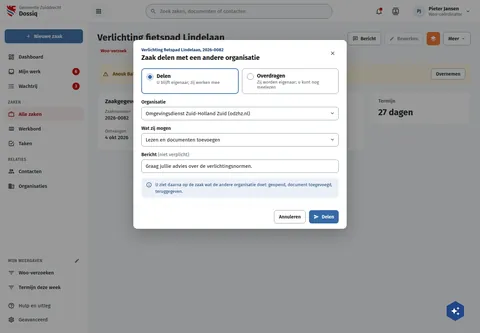
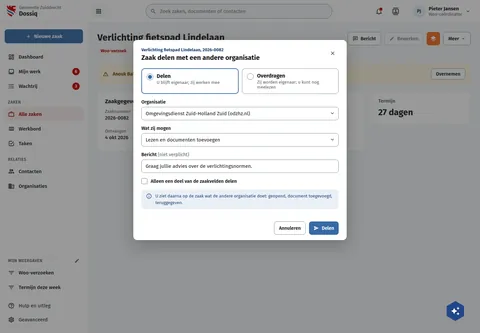
fix(screens): DqZaakSamenwerken draws the partial-fields choice users have
"Alleen een deel van de zaakvelden delen" stands under the message in the
share dialog on the page; the board left it out.

Assisted-by: ClaudeCode:claude-opus-5-5

Changed region(s): [[0.25, 0.6306, 0.75, 0.7207], [0.2812, 0.5405, 0.6875, 0.6306]]

diff --git a/preview/screens/boards/DqZaakSamenwerken.html b/preview/screens/boards/DqZaakSamenwerken.html
@@ -154,7 +154,7 @@ a{color:var(--sc-primary, #3669a5)}a:hover{color:var(--sc-primary-deep, #234a78)
         <div style="display: flex; flex-direction: column; gap: 4px"><span style="font-size: 13px; font-weight: 700; color: var(--sc-primary-deep, #234a78)">Verlichting fietspad Lindelaan, 2026-0082</span><h2 id="dlg-titel" style="margin: 0; font-size: 20px; font-weight: 700">Zaak delen met een andere organisatie</h2></div>
         <button type="button" aria-label="Sluiten" style="width: 36px; height: 36px; border: 0; border-radius: 18px; background: transparent; color: var(--sc-work-text, #3d4047); display: inline-flex; align-items: center; justify-content: center"><svg width="18" height="18" viewbox="0 0 24 24" fill="currentColor" aria-hidden="true"><path d="M19,6.41L17.59,5L12,10.59L6.41,5L5,6.41L10.59,12L5,17.59L6.41,19L12,13.41L17.59,19L19,17.59L13.41,12L19,6.41Z"></path></svg></button>
       </div>
-      <div style="padding: 12px 24px 20px; display: flex; flex-direction: column; gap: 16px"><fieldset style="margin: 0; padding: 0; border: 0; display: flex; gap: 10px"><label style="flex: 1; display: flex; gap: 10px; align-items: flex-start; padding: 12px 14px; border: 2px solid var(--sc-primary, #3669a5); border-radius: 10px"><input type="radio" checked style="width: 20px; height: 20px; margin: 2px 0 0; accent-color: var(--sc-primary, #3669a5); flex: none"><span style="display: flex; flex-direction: column; gap: 2px"><strong>Delen</strong><span style="font-size: 13px; color: var(--sc-work-muted, #5e6168)">U blijft eigenaar; zij werken mee</span></span></label><label style="flex: 1; display: flex; gap: 10px; align-items: flex-start; padding: 12px 14px; border: 1px solid var(--sc-work-field, #828a95); border-radius: 10px"><input type="radio" style="width: 20px; height: 20px; margin: 2px 0 0; accent-color: var(--sc-primary, #3669a5); flex: none"><span style="display: flex; flex-direction: column; gap: 2px"><strong>Overdragen</strong><span style="font-size: 13px; color: var(--sc-work-muted, #5e6168)">Zij worden eigenaar; u kunt nog meelezen</span></span></label></fieldset><div style="display: flex; flex-direction: column; gap: 6px"><label style="font-size: 14px; font-weight: 600">Organisatie</label><div style="position: relative"><select style="appearance: none; width: 100%; height: 40px; box-sizing: border-box; padding: 0 36px 0 12px; border: 1px solid var(--sc-work-field, #828a95); border-radius: 8px; background: #ffffff; font: 400 15px var(--sc-font, 'Fira Sans'), sans-serif; color: var(--sc-work-ink, #1b1c1d)"><option>Omgevingsdienst Zuid-Holland Zuid (odzhz.nl)</option></select><span style="position: absolute; right: 10px; top: 10px; color: var(--sc-work-text, #3d4047)"><svg width="18" height="18" viewbox="0 0 24 24" fill="currentColor" aria-hidden="true"><path d="M7.41,8.58L12,13.17L16.59,8.58L18,10L12,16L6,10L7.41,8.58Z"></path></svg></span></div></div><div style="display: flex; flex-direction: column; gap: 6px"><label style="font-size: 14px; font-weight: 600">Wat zij mogen</label><div style="position: relative"><select style="appearance: none; width: 100%; height: 40px; box-sizing: border-box; padding: 0 36px 0 12px; border: 1px solid var(--sc-work-field, #828a95); border-radius: 8px; background: #ffffff; font: 400 15px var(--sc-font, 'Fira Sans'), sans-serif; color: var(--sc-work-ink, #1b1c1d)"><option>Lezen en documenten toevoegen</option></select><span style="position: absolute; right: 10px; top: 10px; color: var(--sc-work-text, #3d4047)"><svg width="18" height="18" viewbox="0 0 24 24" fill="currentColor" aria-hidden="true"><path d="M7.41,8.58L12,13.17L16.59,8.58L18,10L12,16L6,10L7.41,8.58Z"></path></svg></span></div></div><div style="display: flex; flex-direction: column; gap: 6px"><label style="font-size: 14px; font-weight: 600">Bericht <span style="font-weight: 400; color: var(--sc-work-muted, #5e6168)">(niet verplicht)</span></label><input type="text" value="Graag jullie advies over de verlichtingsnormen." style="box-sizing: border-box; width: 100%; height: 40px; padding: 0 12px; border: 1px solid var(--sc-work-field, #828a95); border-radius: 8px; background: #ffffff; font: 400 15px var(--sc-font, 'Fira Sans'), sans-serif; color: var(--sc-work-ink, #1b1c1d)"></div><div style="display: flex; gap: 10px; align-items: flex-start; padding: 10px 14px; border-radius: 10px; background: var(--sc-primary-light, #eaf0f7); color: var(--sc-primary-deep, #234a78); font-size: 13px; line-height: 1.5"><span style="flex: none; margin-top: 1px"><svg width="18" height="18" viewbox="0 0 24 24" fill="currentColor" aria-hidden="true"><path d="M11,9H13V7H11M12,20C7.59,20 4,16.41 4,12C4,7.59 7.59,4 12,4C16.41,4 20,7.59 20,12C20,16.41 16.41,20 12,20M12,2A10,10 0 0,0 2,12A10,10 0 0,0 12,22A10,10 0 0,0 22,12A10,10 0 0,0 12,2M11,17H13V11H11V17Z"></path></svg></span><span>U ziet daarna op de zaak wat de andere organisatie doet: geopend, document toegevoegd, teruggegeven.</span></div></div>
+      <div style="padding: 12px 24px 20px; display: flex; flex-direction: column; gap: 16px"><fieldset style="margin: 0; padding: 0; border: 0; display: flex; gap: 10px"><label style="flex: 1; display: flex; gap: 10px; align-items: flex-start; padding: 12px 14px; border: 2px solid var(--sc-primary, #3669a5); border-radius: 10px"><input type="radio" checked style="width: 20px; height: 20px; margin: 2px 0 0; accent-color: var(--sc-primary, #3669a5); flex: none"><span style="display: flex; flex-direction: column; gap: 2px"><strong>Delen</strong><span style="font-size: 13px; color: var(--sc-work-muted, #5e6168)">U blijft eigenaar; zij werken mee</span></span></label><label style="flex: 1; display: flex; gap: 10px; align-items: flex-start; padding: 12px 14px; border: 1px solid var(--sc-work-field, #828a95); border-radius: 10px"><input type="radio" style="width: 20px; height: 20px; margin: 2px 0 0; accent-color: var(--sc-primary, #3669a5); flex: none"><span style="display: flex; flex-direction: column; gap: 2px"><strong>Overdragen</strong><span style="font-size: 13px; color: var(--sc-work-muted, #5e6168)">Zij worden eigenaar; u kunt nog meelezen</span></span></label></fieldset><div style="display: flex; flex-direction: column; gap: 6px"><label style="font-size: 14px; font-weight: 600">Organisatie</label><div style="position: relative"><select style="appearance: none; width: 100%; height: 40px; box-sizing: border-box; padding: 0 36px 0 12px; border: 1px solid var(--sc-work-field, #828a95); border-radius: 8px; background: #ffffff; font: 400 15px var(--sc-font, 'Fira Sans'), sans-serif; color: var(--sc-work-ink, #1b1c1d)"><option>Omgevingsdienst Zuid-Holland Zuid (odzhz.nl)</option></select><span style="position: absolute; right: 10px; top: 10px; color: var(--sc-work-text, #3d4047)"><svg width="18" height="18" viewbox="0 0 24 24" fill="currentColor" aria-hidden="true"><path d="M7.41,8.58L12,13.17L16.59,8.58L18,10L12,16L6,10L7.41,8.58Z"></path></svg></span></div></div><div style="display: flex; flex-direction: column; gap: 6px"><label style="font-size: 14px; font-weight: 600">Wat zij mogen</label><div style="position: relative"><select style="appearance: none; width: 100%; height: 40px; box-sizing: border-box; padding: 0 36px 0 12px; border: 1px solid var(--sc-work-field, #828a95); border-radius: 8px; background: #ffffff; font: 400 15px var(--sc-font, 'Fira Sans'), sans-serif; color: var(--sc-work-ink, #1b1c1d)"><option>Lezen en documenten toevoegen</option></select><span style="position: absolute; right: 10px; top: 10px; color: var(--sc-work-text, #3d4047)"><svg width="18" height="18" viewbox="0 0 24 24" fill="currentColor" aria-hidden="true"><path d="M7.41,8.58L12,13.17L16.59,8.58L18,10L12,16L6,10L7.41,8.58Z"></path></svg></span></div></div><div style="display: flex; flex-direction: column; gap: 6px"><label style="font-size: 14px; font-weight: 600">Bericht <span style="font-weight: 400; color: var(--sc-work-muted, #5e6168)">(niet verplicht)</span></label><input type="text" value="Graag jullie advies over de verlichtingsnormen." style="box-sizing: border-box; width: 100%; height: 40px; padding: 0 12px; border: 1px solid var(--sc-work-field, #828a95); border-radius: 8px; background: #ffffff; font: 400 15px var(--sc-font, 'Fira Sans'), sans-serif; color: var(--sc-work-ink, #1b1c1d)"></div><label style="display: flex; gap: 10px; align-items: center; font-size: 14px; font-weight: 600"><input type="checkbox" style="width: 18px; height: 18px; margin: 0; accent-color: var(--sc-primary, #3669a5); flex: none">Alleen een deel van de zaakvelden delen</label><div style="display: flex; gap: 10px; align-items: flex-start; padding: 10px 14px; border-radius: 10px; background: var(--sc-primary-light, #eaf0f7); color: var(--sc-primary-deep, #234a78); font-size: 13px; line-height: 1.5"><span style="flex: none; margin-top: 1px"><svg width="18" height="18" viewbox="0 0 24 24" fill="currentColor" aria-hidden="true"><path d="M11,9H13V7H11M12,20C7.59,20 4,16.41 4,12C4,7.59 7.59,4 12,4C16.41,4 20,7.59 20,12C20,16.41 16.41,20 12,20M12,2A10,10 0 0,0 2,12A10,10 0 0,0 12,22A10,10 0 0,0 22,12A10,10 0 0,0 12,2M11,17H13V11H11V17Z"></path></svg></span><span>U ziet daarna op de zaak wat de andere organisatie doet: geopend, document toegevoegd, teruggegeven.</span></div></div>
       <div style="display: flex; justify-content: flex-end; gap: 10px; padding: 16px 24px; border-top: 1px solid var(--sc-work-soft, #eef0f3)"><button type="button" style="display: inline-flex; align-items: center; gap: 8px; height: 40px; padding: 0 14px; border-radius: 8px; font: 600 14px var(--sc-font, 'Fira Sans'), sans-serif; white-space: nowrap; border: 1px solid var(--sc-work-field, #828a95); background: #ffffff; color: var(--sc-work-ink, #1b1c1d);">Annuleren</button><button type="button" style="display: inline-flex; align-items: center; gap: 8px; height: 40px; padding: 0 14px; border-radius: 8px; font: 600 14px var(--sc-font, 'Fira Sans'), sans-serif; white-space: nowrap; border: 0; background: var(--sc-primary, #3669a5); color: #ffffff;"><svg width="16" height="16" viewbox="0 0 24 24" fill="currentColor" aria-hidden="true"><path d="M2,21L23,12L2,3V10L17,12L2,14V21Z"></path></svg>Delen</button></div>
     </div>
   </div>

diff --git a/screens-src/zuiddrecht/DqZaakSamenwerken.dc.html b/screens-src/zuiddrecht/DqZaakSamenwerken.dc.html
@@ -36,7 +36,7 @@ a{color:#3669a5}a:hover{color:#234a78}
         <div style="display: flex; flex-direction: column; gap: 4px"><span style="font-size: 13px; font-weight: 700; color: #234a78">Verlichting fietspad Lindelaan, 2026-0082</span><h2 id="dlg-titel" style="margin: 0; font-size: 20px; font-weight: 700">Zaak delen met een andere organisatie</h2></div>
         <button type="button" aria-label="Sluiten" style="width: 36px; height: 36px; border: 0; border-radius: 18px; background: transparent; color: #3d4047; display: inline-flex; align-items: center; justify-content: center"><svg width="18" height="18" viewBox="0 0 24 24" fill="currentColor" aria-hidden="true"><path d="M19,6.41L17.59,5L12,10.59L6.41,5L5,6.41L10.59,12L5,17.59L6.41,19L12,13.41L17.59,19L19,17.59L13.41,12L19,6.41Z"></path></svg></button>
       </div>
-      <div style="padding: 12px 24px 20px; display: flex; flex-direction: column; gap: 16px"><fieldset style="margin: 0; padding: 0; border: 0; display: flex; gap: 10px"><label style="flex: 1; display: flex; gap: 10px; align-items: flex-start; padding: 12px 14px; border: 2px solid #3669a5; border-radius: 10px"><input type="radio" checked style="width: 20px; height: 20px; margin: 2px 0 0; accent-color: #3669a5; flex: none"><span style="display: flex; flex-direction: column; gap: 2px"><strong>Delen</strong><span style="font-size: 13px; color: #5e6168">U blijft eigenaar; zij werken mee</span></span></label><label style="flex: 1; display: flex; gap: 10px; align-items: flex-start; padding: 12px 14px; border: 1px solid #828a95; border-radius: 10px"><input type="radio"  style="width: 20px; height: 20px; margin: 2px 0 0; accent-color: #3669a5; flex: none"><span style="display: flex; flex-direction: column; gap: 2px"><strong>Overdragen</strong><span style="font-size: 13px; color: #5e6168">Zij worden eigenaar; u kunt nog meelezen</span></span></label></fieldset><div style="display: flex; flex-direction: column; gap: 6px"><label style="font-size: 14px; font-weight: 600">Organisatie</label><div style="position: relative"><select style="appearance: none; width: 100%; height: 40px; box-sizing: border-box; padding: 0 36px 0 12px; border: 1px solid #828a95; border-radius: 8px; background: #ffffff; font: 400 15px 'Fira Sans', sans-serif; color: #1b1c1d"><option>Omgevingsdienst Zuid-Holland Zuid (odzhz.nl)</option></select><span style="position: absolute; right: 10px; top: 10px; color: #3d4047"><svg width="18" height="18" viewBox="0 0 24 24" fill="currentColor" aria-hidden="true"><path d="M7.41,8.58L12,13.17L16.59,8.58L18,10L12,16L6,10L7.41,8.58Z"></path></svg></span></div></div><div style="display: flex; flex-direction: column; gap: 6px"><label style="font-size: 14px; font-weight: 600">Wat zij mogen</label><div style="position: relative"><select style="appearance: none; width: 100%; height: 40px; box-sizing: border-box; padding: 0 36px 0 12px; border: 1px solid #828a95; border-radius: 8px; background: #ffffff; font: 400 15px 'Fira Sans', sans-serif; color: #1b1c1d"><option>Lezen en documenten toevoegen</option></select><span style="position: absolute; right: 10px; top: 10px; color: #3d4047"><svg width="18" height="18" viewBox="0 0 24 24" fill="currentColor" aria-hidden="true"><path d="M7.41,8.58L12,13.17L16.59,8.58L18,10L12,16L6,10L7.41,8.58Z"></path></svg></span></div></div><div style="display: flex; flex-direction: column; gap: 6px"><label style="font-size: 14px; font-weight: 600">Bericht <span style="font-weight: 400; color: #5e6168">(niet verplicht)</span></label><input type="text" value="Graag jullie advies over de verlichtingsnormen." style="box-sizing: border-box; width: 100%; height: 40px; padding: 0 12px; border: 1px solid #828a95; border-radius: 8px; background: #ffffff; font: 400 15px 'Fira Sans', sans-serif; color: #1b1c1d"></div><div style="display: flex; gap: 10px; align-items: flex-start; padding: 10px 14px; border-radius: 10px; background: #eaf0f7; color: #234a78; font-size: 13px; line-height: 1.5"><span style="flex: none; margin-top: 1px"><svg width="18" height="18" viewBox="0 0 24 24" fill="currentColor" aria-hidden="true"><path d="M11,9H13V7H11M12,20C7.59,20 4,16.41 4,12C4,7.59 7.59,4 12,4C16.41,4 20,7.59 20,12C20,16.41 16.41,20 12,20M12,2A10,10 0 0,0 2,12A10,10 0 0,0 12,22A10,10 0 0,0 22,12A10,10 0 0,0 12,2M11,17H13V11H11V17Z"></path></svg></span><span>U ziet daarna op de zaak wat de andere organisatie doet: geopend, document toegevoegd, teruggegeven.</span></div></div>
+      <div style="padding: 12px 24px 20px; display: flex; flex-direction: column; gap: 16px"><fieldset style="margin: 0; padding: 0; border: 0; display: flex; gap: 10px"><label style="flex: 1; display: flex; gap: 10px; align-items: flex-start; padding: 12px 14px; border: 2px solid #3669a5; border-radius: 10px"><input type="radio" checked style="width: 20px; height: 20px; margin: 2px 0 0; accent-color: #3669a5; flex: none"><span style="display: flex; flex-direction: column; gap: 2px"><strong>Delen</strong><span style="font-size: 13px; color: #5e6168">U blijft eigenaar; zij werken mee</span></span></label><label style="flex: 1; display: flex; gap: 10px; align-items: flex-start; padding: 12px 14px; border: 1px solid #828a95; border-radius: 10px"><input type="radio"  style="width: 20px; height: 20px; margin: 2px 0 0; accent-color: #3669a5; flex: none"><span style="display: flex; flex-direction: column; gap: 2px"><strong>Overdragen</strong><span style="font-size: 13px; color: #5e6168">Zij worden eigenaar; u kunt nog meelezen</span></span></label></fieldset><div style="display: flex; flex-direction: column; gap: 6px"><label style="font-size: 14px; font-weight: 600">Organisatie</label><div style="position: relative"><select style="appearance: none; width: 100%; height: 40px; box-sizing: border-box; padding: 0 36px 0 12px; border: 1px solid #828a95; border-radius: 8px; background: #ffffff; font: 400 15px 'Fira Sans', sans-serif; color: #1b1c1d"><option>Omgevingsdienst Zuid-Holland Zuid (odzhz.nl)</option></select><span style="position: absolute; right: 10px; top: 10px; color: #3d4047"><svg width="18" height="18" viewBox="0 0 24 24" fill="currentColor" aria-hidden="true"><path d="M7.41,8.58L12,13.17L16.59,8.58L18,10L12,16L6,10L7.41,8.58Z"></path></svg></span></div></div><div style="display: flex; flex-direction: column; gap: 6px"><label style="font-size: 14px; font-weight: 600">Wat zij mogen</label><div style="position: relative"><select style="appearance: none; width: 100%; height: 40px; box-sizing: border-box; padding: 0 36px 0 12px; border: 1px solid #828a95; border-radius: 8px; background: #ffffff; font: 400 15px 'Fira Sans', sans-serif; color: #1b1c1d"><option>Lezen en documenten toevoegen</option></select><span style="position: absolute; right: 10px; top: 10px; color: #3d4047"><svg width="18" height="18" viewBox="0 0 24 24" fill="currentColor" aria-hidden="true"><path d="M7.41,8.58L12,13.17L16.59,8.58L18,10L12,16L6,10L7.41,8.58Z"></path></svg></span></div></div><div style="display: flex; flex-direction: column; gap: 6px"><label style="font-size: 14px; font-weight: 600">Bericht <span style="font-weight: 400; color: #5e6168">(niet verplicht)</span></label><input type="text" value="Graag jullie advies over de verlichtingsnormen." style="box-sizing: border-box; width: 100%; height: 40px; padding: 0 12px; border: 1px solid #828a95; border-radius: 8px; background: #ffffff; font: 400 15px 'Fira Sans', sans-serif; color: #1b1c1d"></div><label style="display: flex; gap: 10px; align-items: center; font-size: 14px; font-weight: 600"><input type="checkbox" style="width: 18px; height: 18px; margin: 0; accent-color: #3669a5; flex: none">Alleen een deel van de zaakvelden delen</label><div style="display: flex; gap: 10px; align-items: flex-start; padding: 10px 14px; border-radius: 10px; background: #eaf0f7; color: #234a78; font-size: 13px; line-height: 1.5"><span style="flex: none; margin-top: 1px"><svg width="18" height="18" viewBox="0 0 24 24" fill="currentColor" aria-hidden="true"><path d="M11,9H13V7H11M12,20C7.59,20 4,16.41 4,12C4,7.59 7.59,4 12,4C16.41,4 20,7.59 20,12C20,16.41 16.41,20 12,20M12,2A10,10 0 0,0 2,12A10,10 0 0,0 12,22A10,10 0 0,0 22,12A10,10 0 0,0 12,2M11,17H13V11H11V17Z"></path></svg></span><span>U ziet daarna op de zaak wat de andere organisatie doet: geopend, document toegevoegd, teruggegeven.</span></div></div>
       <div style="display: flex; justify-content: flex-end; gap: 10px; padding: 16px 24px; border-top: 1px solid #eef0f3"><button type="button" style="display: inline-flex; align-items: center; gap: 8px; height: 40px; padding: 0 14px; border-radius: 8px; font: 600 14px 'Fira Sans', sans-serif; white-space: nowrap; border: 1px solid #828a95; background: #ffffff; color: #1b1c1d;">Annuleren</button><button type="button" style="display: inline-flex; align-items: center; gap: 8px; height: 40px; padding: 0 14px; border-radius: 8px; font: 600 14px 'Fira Sans', sans-serif; white-space: nowrap; border: 0; background: #3669a5; color: #ffffff;"><svg width="16" height="16" viewBox="0 0 24 24" fill="currentColor" aria-hidden="true"><path d="M2,21L23,12L2,3V10L17,12L2,14V21Z"></path></svg>Delen</button></div>
     </div>
   </div>
